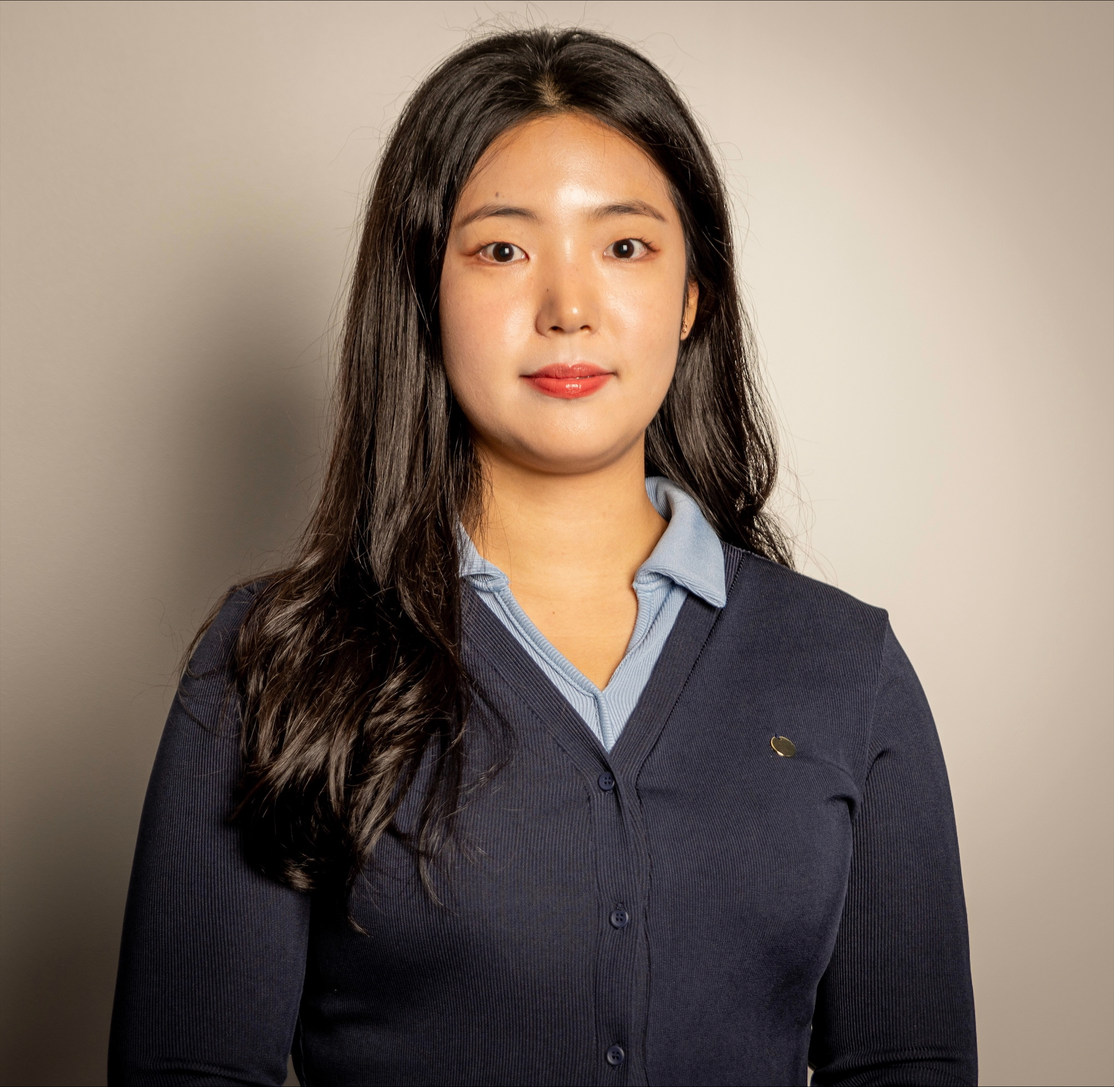
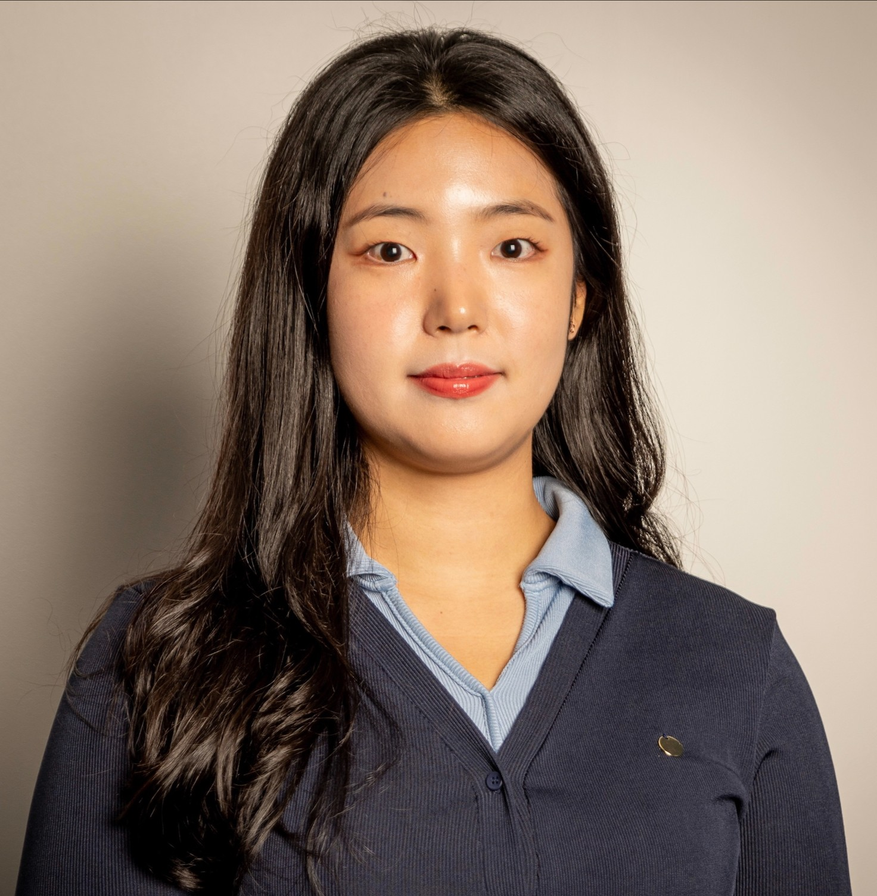
photo

diff --git a/index.html b/index.html
@@ -45,7 +45,7 @@
     color: white;
   }
   h1 {
-  font-size: 3rem;
+  font-size: 2.5rem;
   margin-bottom: 0.5rem;
   }
   header p {
